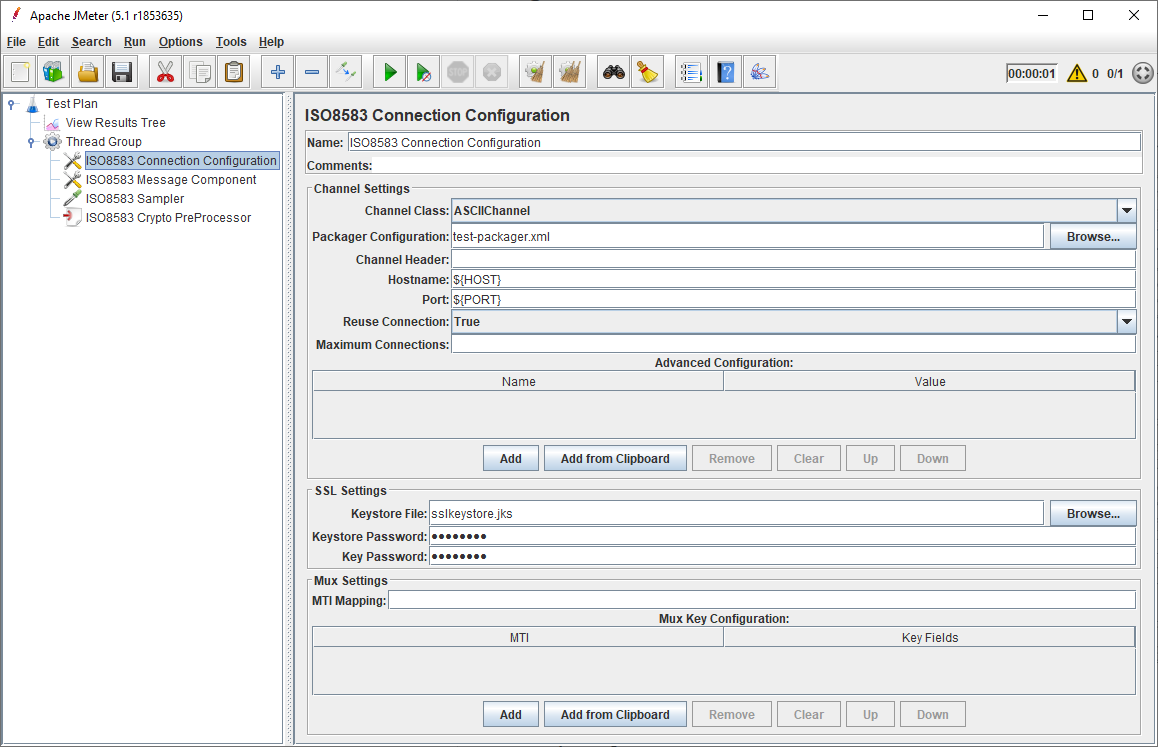
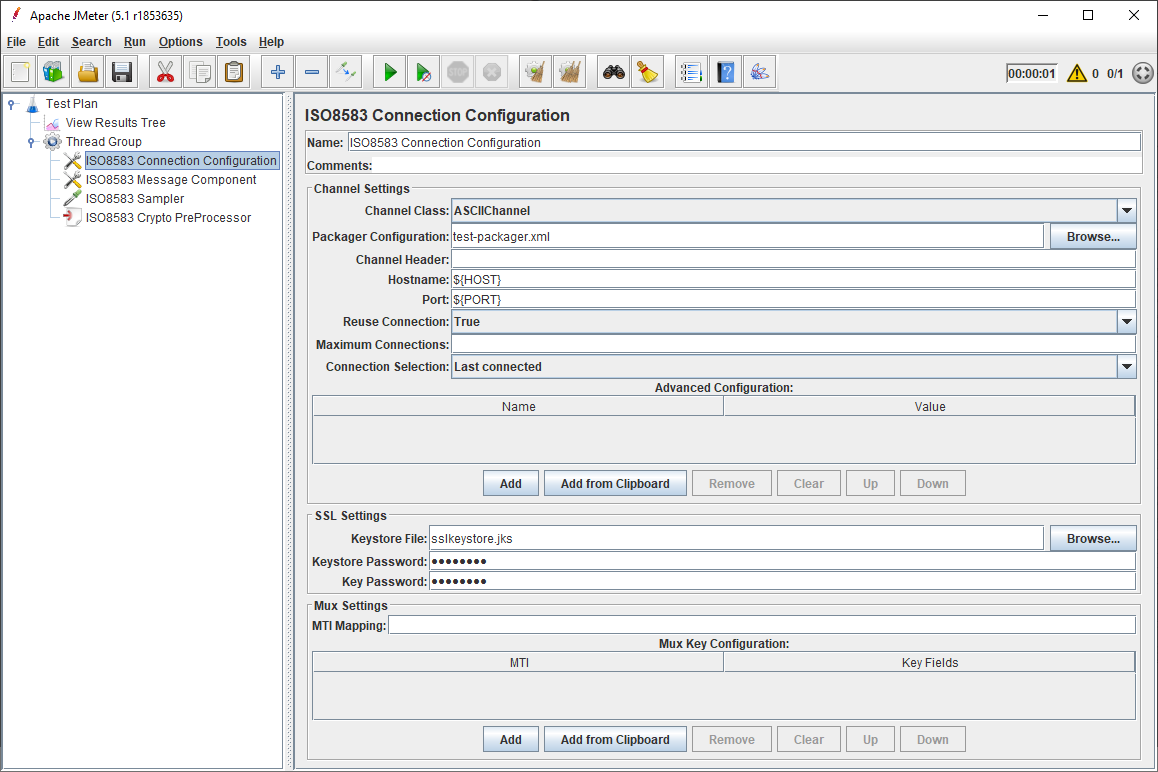
Update docs

Changed region(s): [[0.0, 0.0, 1.0, 0.9545], [0.2798, 0.9237, 0.9637, 0.9853]]

diff --git a/README.md b/README.md
@@ -39,7 +39,9 @@ Usage
 
 ![ISO8583 Connection Configuration](docs/config.png)
 
-This Configuration Element must be included to use the *ISO8583 Sampler*. 
+This Configuration Element represents a connection to the system under test.
+It must be present in the [Scope](https://jmeter.apache.org/usermanual/test_plan.html#scoping_rules)
+of an *ISO8583 Sampler*.
 
 Mandatory settings:
 - *Channel Class*: 
@@ -91,6 +93,13 @@ For SSL/TLS connections, the *Keystore File*
         |----|----------|
         |    |42 41 11  |
         |0800|41        |
+- *Connection Selection* (since v1.2):
+    * Client mode: Ignored.
+    * Server mode: If there are multiple inbound socket connections (from the system under test to JMeter),
+     this determines which of these connections to select when sending a request.
+     "Last connected" (default) sends to the most recently connected socket.
+     "Round robin" cycles through the connections one after the other.
+     "All connected" sends to all of them.
 
 ##### Implementation Details
 
